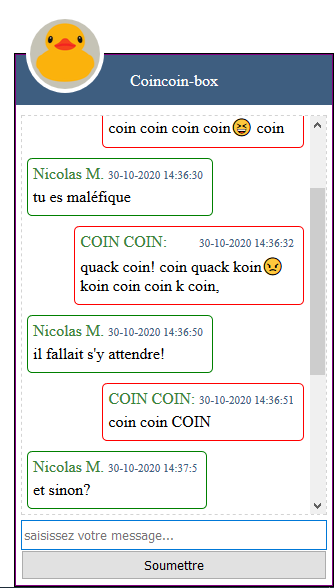
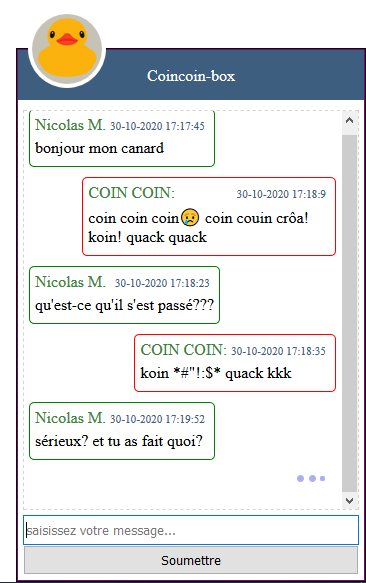
tempo avant la réponse + personnalisation des interlocuteurs

Changed region(s): [[0.0299, 0.0, 1.0, 1.0], [0.8084, 0.8027, 0.8982, 0.8336]]

diff --git a/helloworld.js b/helloworld.js
@@ -5,11 +5,20 @@ function getDateString()
 	return datestring;
 }
 
+//cutting the speech is rude, and it really complicates the code! We prevent it...
+var isWaitingAnswer = false;
+var interlocutor = '';
+
 function submitDiscussion(){
 	var textbox =  document.getElementsByClassName('text-content')[0];
 	var messageContent = document.getElementById("discussionInput");
-					
-	if(messageContent.value == '')
+	
+	//no message or delay too short
+	if(messageContent.value == '' || isWaitingAnswer)
+		return false;
+
+	//sometimes, do not answer except if this is a question
+	if(!messageContent.value.endsWith('?') && getRandomInt(7) == 0)
 		return false;
 
 	textbox.innerHTML += "<div class='ispeak'><div class='chatform'><span class='titleme'>"+ document.getElementsByName('user')[0].value  +"</span><span class='chataddition'>"+getDateString()+"</span><div class='chattext'>" + messageContent.value + "</div></div></div>";
@@ -18,15 +27,40 @@ function submitDiscussion(){
 	
 	var nbWords = getRandomInt(10) + 1;
 	//generate an answer with a delay, computed with the number of word in the answer
-	setTimeout(function() { generateAnswer(nbWords); }, nbWords * 200);
+
+	//block another message
+	isWaitingAnswer = true;
+
+	//add a delay before the answer
+	waitingAnswer = getRandomInt(10)+1;
+	setTimeout(function() { setPendingResponse(); }, waitingAnswer * 500);
+	
+	//generate an answer with a delay, computed with the number of word in the answer
+	setTimeout(function() { generateAnswer(nbWords); }, waitingAnswer * 500 + nbWords * 500);
 	
 	textbox.scrollTo(0,textbox.scrollHeight);
 	return false;
 }
 
 
-var WORDS = ['coin','coin', 'coin', 'coin', 'COIN', '*#"!:$*', 'koin', 'coin coin', 'k', 'quack'];
+function setPendingResponse()
+{
+	var textbox =  document.getElementsByClassName('text-content')[0];
+	textbox.innerHTML += "<div class='waitspeak'><div class='lds-ellipsis'><div></div><div></div><div></div><div></div></div></div>"
+	textbox.scrollTo(0,textbox.scrollHeight);
+}
+
+function removePendingResponse()
+{
+	var myobj = document.getElementsByClassName("waitspeak")[0];
+	myobj.remove(); 
+}
+
+var WORDS = ['coin','coin', 'coin', 'coin', 'COIN', '*#"!:$*', 'koin', 'coin coin', 'kkk', 'quack', 'couin', 'cot-cot', 'crôa'];
 var PONCTUATION = ['?', '!', ',', '...', '!!!'];
+var INTERLOCUTORS = ['Donald', 'Picsou', 'Daisy', 'Gontran', 'Daffy Duck', 'Howard', 'Coin-Coin', 'Plucky', 'Fantomiald', 'Riri'];
+
+
 
 function getRandomInt(max) {
   return Math.floor(Math.random() * Math.floor(max));
@@ -57,7 +91,11 @@ function generateAnswer(nbWords)
 		answer +=  ' ';
 	}
 
-	
-	textbox.innerHTML += "<div class='hespeak'><div class='chatform'><span class='titleme'>COIN COIN:</span><span class='chataddition'>"+getDateString()+"</span><div class='chattext'>" + answer +"</div></div></div>";
+	removePendingResponse();
+	textbox.innerHTML += "<div class='hespeak'><div class='chatform'><span class='titleme'>"+interlocutor+":</span><span class='chataddition'>"+getDateString()+"</span><div class='chattext'>" + answer +"</div></div></div>";
 	textbox.scrollTo(0,textbox.scrollHeight);
+	isWaitingAnswer = false;
 }
+
+//generate random interlocutor
+interlocutor = INTERLOCUTORS[getRandomInt(INTERLOCUTORS.length)];

diff --git a/helloworld.css b/helloworld.css
@@ -3,7 +3,7 @@
     bottom: 0px;
     right: 0px;
     border: black;
-	width: 320px;
+	width: 350px;
     border: groove black 1px;
 	height: auto;
 }
@@ -26,7 +26,7 @@
 }
 
 .ispeak {
-	border: groove green 1px;
+	border: groove #bcd7bc  1px;
 	margin: 5px;
 	max-width: 80%;
 	border-radius: 5px;
@@ -35,12 +35,23 @@
 }
 
 .hespeak {
-	border: groove red 1px;
+	border: groove #d27777 1px;
 	margin: 5px;
 	max-width: 80%;
 	border-radius: 5px;
 	padding: 5px;
 	float: right;
+}
+
+.waitspeak {
+	border: none;
+	margin: 5px;
+	max-width: 80%;
+	border-radius: 5px;
+	padding: 5px;
+	float: right;
+	width: 100%;
+	text-align: right;
 }
 
 * {
@@ -49,7 +60,7 @@
 
 .inner {
   border: 1px solid purple;
-  max-width: 320px;
+  max-width: 350px;
   margin: auto;
 }
 
@@ -117,4 +128,61 @@ input[type=checkbox]:checked ~ label ~ .content {
 
 .chattext {
 	margin: 5px 0px;
+}
+
+
+/*css loader*/
+.lds-ellipsis {
+  display: inline-block;
+  position: relative;
+  width: 40px;
+  height: 20px;
+}
+.lds-ellipsis div {
+  position: absolute;
+  width: 7px;
+  height: 7px;
+  border-radius: 50%;
+  background: #adadf0;
+  animation-timing-function: cubic-bezier(0, 1, 1, 0);
+}
+.lds-ellipsis div:nth-child(1) {
+  left: 4px;
+  animation: lds-ellipsis1 1s infinite;
+}
+.lds-ellipsis div:nth-child(2) {
+  left: 4px;
+  animation: lds-ellipsis2 1s infinite;
+}
+.lds-ellipsis div:nth-child(3) {
+  left: 16px;
+  animation: lds-ellipsis2 1s infinite;
+}
+.lds-ellipsis div:nth-child(4) {
+  left: 28px;
+  animation: lds-ellipsis3 1s infinite;
+}
+@keyframes lds-ellipsis1 {
+  0% {
+    transform: scale(0);
+  }
+  100% {
+    transform: scale(1);
+  }
+}
+@keyframes lds-ellipsis3 {
+  0% {
+    transform: scale(1);
+  }
+  100% {
+    transform: scale(0);
+  }
+}
+@keyframes lds-ellipsis2 {
+  0% {
+    transform: translate(0, 0);
+  }
+  100% {
+    transform: translate(12px, 0);
+  }
 }

diff --git a/helloworld.html b/helloworld.html
@@ -20,7 +20,7 @@
 					<div class="content">
 						<div class="text-content" >
 						</div>
-						<input type="text" id="discussionInput" name="message"  placeholder="saisissez votre message..." text="coucou">
+						<input type="text" id="discussionInput" name="message"  placeholder="saisissez votre message..." text="coucou" autocomplete="off">
 						<input type="submit" id="submitMsg" value='Soumettre'>
 						<input type="hidden" name="user" value="Nicolas M.">
 					</div>
